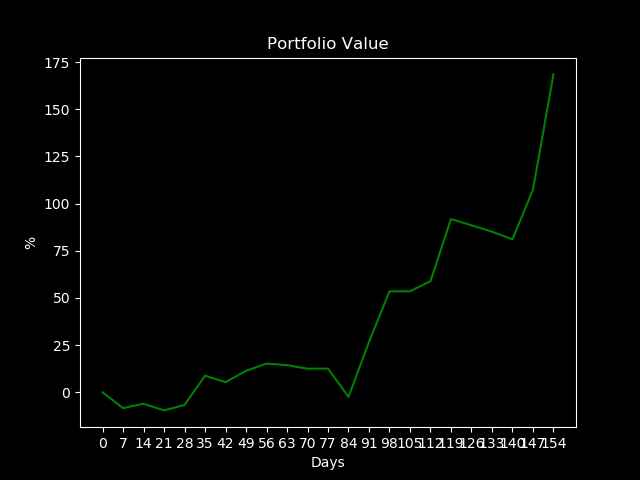
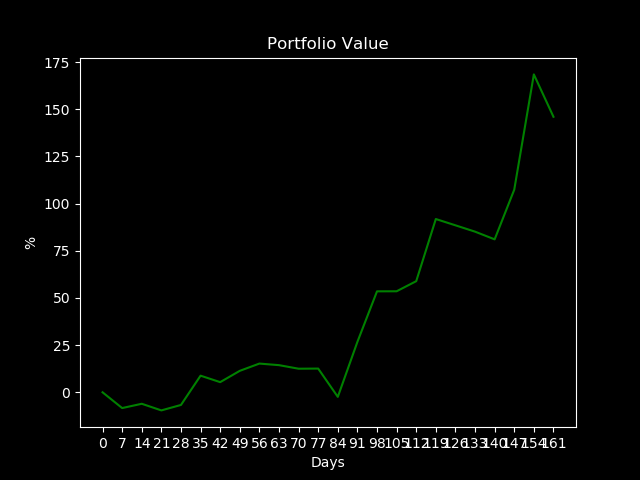
weekly price update

diff --git a/html/mm.html b/html/mm.html
@@ -68,7 +68,7 @@
 							<div class="image fit">
                                                         <a href="images/portfolio.png"><img src="images/portfolio.png"></img></a>
 							<br>
-							<p>Pretty good! I lost nearly $10,000 immediately, but have recovered and doubled my money! This particular strategy seems to benefit from high volatility. LAST WEEK WAS INSANE! This chart shows performance as of 11/8/2019</p>				
+							<p>Pretty good! I lost nearly $10,000 immediately, but have recovered and doubled my money! This particular strategy seems to benefit from high volatility. This chart shows performance as of 11/15/2019</p>				
 							</div>
 						</div>
 					</div>
